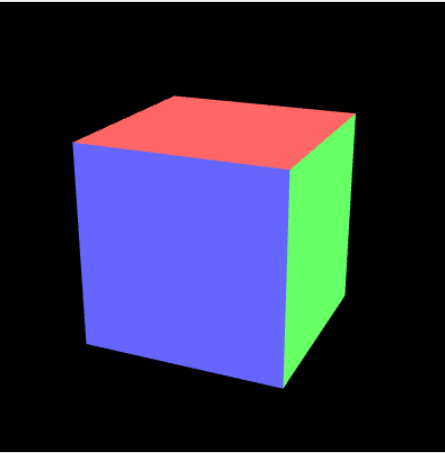
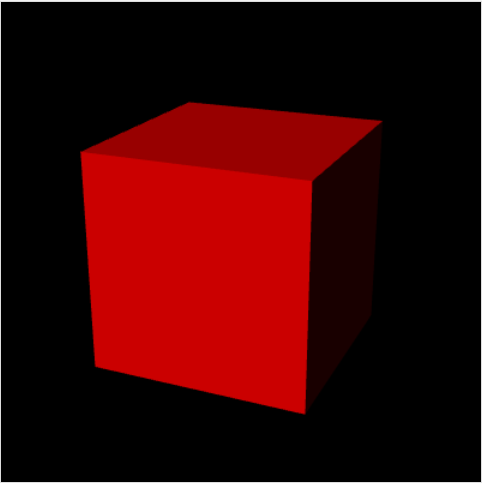
新增第八章的三个路由，分别用于绘制光照效果的立方体及其变体，并在首页添加滚动到顶部和底部的功能按钮。

diff --git a/src/views/Home/index.vue b/src/views/Home/index.vue
@@ -55,13 +55,34 @@ function handleImageError(event: Event) {
     parent.innerHTML += '<div class="no-image-text">暂无预览</div>'
   }
 }
+
+// 滚动到顶部
+function scrollToTop() {
+  const container = document.querySelector('.home-container')
+  if (container) {
+    container.scrollTo({
+      top: 0,
+      behavior: 'smooth',
+    })
+  }
+}
+
+// 滚动到底部
+function scrollToBottom() {
+  const container = document.querySelector('.home-container')
+  if (container) {
+    container.scrollTo({
+      top: container.scrollHeight,
+      behavior: 'smooth',
+    })
+  }
+}
 </script>
 
 <template>
   <div class="home-container">
     <div class="header">
       <h1>WebGL编程指南 - 学习Demo</h1>
-      <p>选择你想要查看的章节和案例</p>
     </div>
 
     <div class="chapters">
@@ -83,6 +104,20 @@ function handleImageError(event: Event) {
         </div>
       </div>
     </div>
+
+    <!-- 滚动按钮 -->
+    <div class="scroll-buttons">
+      <button class="scroll-btn scroll-to-top" title="回到顶部" @click="scrollToTop">
+        <svg viewBox="0 0 24 24" width="20" height="20" fill="currentColor">
+          <path d="M7.41 15.41L12 10.83l4.59 4.58L18 14l-6-6-6 6z" />
+        </svg>
+      </button>
+      <button class="scroll-btn scroll-to-bottom" title="前往底部" @click="scrollToBottom">
+        <svg viewBox="0 0 24 24" width="20" height="20" fill="currentColor">
+          <path d="M7.41 8.59L12 13.17l4.59-4.58L18 10l-6 6-6-6z" />
+        </svg>
+      </button>
+    </div>
   </div>
 </template>
 
@@ -92,6 +127,7 @@ function handleImageError(event: Event) {
   background: linear-gradient(135deg, #667eea 0%, #764ba2 100%);
   padding: 3rem 4rem;
   overflow: auto;
+  position: relative;
 }
 
 .header {
@@ -236,6 +272,45 @@ function handleImageError(event: Event) {
   font-weight: 400;
 }
 
+/* 滚动按钮样式 */
+.scroll-buttons {
+  position: fixed;
+  right: 2rem;
+  top: 50%;
+  transform: translateY(-50%);
+  display: flex;
+  flex-direction: column;
+  gap: 0.5rem;
+  z-index: 1000;
+}
+
+.scroll-btn {
+  width: 48px;
+  height: 48px;
+  border: none;
+  border-radius: 50%;
+  background: rgba(255, 255, 255, 0.9);
+  color: #667eea;
+  cursor: pointer;
+  display: flex;
+  align-items: center;
+  justify-content: center;
+  box-shadow: 0 4px 16px rgba(0, 0, 0, 0.15);
+  backdrop-filter: blur(10px);
+  transition: all 0.3s cubic-bezier(0.4, 0, 0.2, 1);
+}
+
+.scroll-btn:hover {
+  background: rgba(255, 255, 255, 1);
+  color: #5a67d8;
+  transform: scale(1.1);
+  box-shadow: 0 6px 20px rgba(0, 0, 0, 0.2);
+}
+
+.scroll-btn:active {
+  transform: scale(0.95);
+}
+
 /* 响应式设计 */
 @media (max-width: 1400px) {
   .demos-grid {
@@ -283,6 +358,15 @@ function handleImageError(event: Event) {
 
   .demo-preview {
     height: 200px;
+  }
+
+  .scroll-buttons {
+    right: 1rem;
+  }
+
+  .scroll-btn {
+    width: 44px;
+    height: 44px;
   }
 }
 </style>

diff --git a/src/views/ch08/LightedTranslatedRotatedCube/index.vue b/src/views/ch08/LightedTranslatedRotatedCube/index.vue
@@ -30,6 +30,12 @@ function main() {
     console.error('Failed to set the positions of the vertices')
     return
   }
+  // ✅新增：设置模型矩阵，用于对立方体进行变换
+  const modelMatrix = new Matrix4()
+  // 先沿着Y轴平移1个单位
+  modelMatrix.setTranslate(0, 1, 0)
+  // 再绕X轴旋转45度
+  modelMatrix.setRotate(45, 1, 0, 0)
   // 设置mvp矩阵
   const u_mvpMatrix = gl.getUniformLocation(gl.program, 'u_mvpMatrix')
   if (!u_mvpMatrix) {
@@ -39,8 +45,9 @@ function main() {
   const mvpMatrix = new Matrix4()
   mvpMatrix.setPerspective(30, 1, 1, 100)
   mvpMatrix.lookAt(3, 3, 7, 0, 0, 0, 0, 1, 0)
+  // ✅新增：将模型矩阵与mvp矩阵相乘
+  mvpMatrix.multiply(modelMatrix)
   gl.uniformMatrix4fv(u_mvpMatrix, false, mvpMatrix.elements)
-  // === 新增 ===
   // 设置光线颜色、方向、法向量
   const u_LightColor = gl.getUniformLocation(gl.program, 'u_LightColor')
   const u_LightDirection = gl.getUniformLocation(gl.program, 'u_LightDirection')
@@ -50,6 +57,17 @@ function main() {
   const lightDirection = new Vector3([0.5, 3.0, 4.0])
   lightDirection.normalize()
   gl.uniform3fv(u_LightDirection, lightDirection.elements)
+  // 设置环境光
+  const u_AmbientLight = gl.getUniformLocation(gl.program, 'u_AmbientLight')
+  gl.uniform3f(u_AmbientLight, 0.2, 0.2, 0.2)
+
+  // ✅新增：设置用来变换法向量的矩阵
+  const u_NormalMatrix = gl.getUniformLocation(gl.program, 'u_NormalMatrix')
+  const normalMatrix = new Matrix4()
+  // 根据模型矩阵，计算变换法向量的矩阵
+  normalMatrix.setInverseOf(modelMatrix)
+  normalMatrix.transpose()
+  gl.uniformMatrix4fv(u_NormalMatrix, false, normalMatrix.elements)
 
   gl.clearColor(0.0, 0.0, 0.0, 1.0)
   gl.enable(gl.DEPTH_TEST)
@@ -149,8 +167,10 @@ function initArrayBuffer(
 <template>
   <div class="demo-container">
     <div class="demo-header">
-      <h2>绘制一个平行光照射下的红色立方体</h2>
-      <p>🤔可以观察到立方体右侧是全黑的，与真实世界不相符，这是因为没有考虑到漫反射</p>
+      <h2>运动物体的光照效果</h2>
+      <p>计算一个进行平移、旋转后的立方体，在光照下的效果</p>
+      <p>👉主要学习如何计算运动后物体的法向量</p>
+      <p><strong>规则:</strong>用法向量乘以模型矩阵的逆转置矩阵。就可以求得变换后的法向量。</p>
     </div>
     <div class="canvas-container">
       <canvas id="webgl" width="400" height="400" />

diff --git a/src/views/ch08/LightedCube_ambient/index.vue b/src/views/ch08/LightedCube_ambient/index.vue
@@ -40,7 +40,6 @@ function main() {
   mvpMatrix.setPerspective(30, 1, 1, 100)
   mvpMatrix.lookAt(3, 3, 7, 0, 0, 0, 0, 1, 0)
   gl.uniformMatrix4fv(u_mvpMatrix, false, mvpMatrix.elements)
-  // === 新增 ===
   // 设置光线颜色、方向、法向量
   const u_LightColor = gl.getUniformLocation(gl.program, 'u_LightColor')
   const u_LightDirection = gl.getUniformLocation(gl.program, 'u_LightDirection')
@@ -50,6 +49,9 @@ function main() {
   const lightDirection = new Vector3([0.5, 3.0, 4.0])
   lightDirection.normalize()
   gl.uniform3fv(u_LightDirection, lightDirection.elements)
+  // ✅新增：设置环境光
+  const u_AmbientLight = gl.getUniformLocation(gl.program, 'u_AmbientLight')
+  gl.uniform3f(u_AmbientLight, 0.2, 0.2, 0.2)
 
   gl.clearColor(0.0, 0.0, 0.0, 1.0)
   gl.enable(gl.DEPTH_TEST)
@@ -149,8 +151,9 @@ function initArrayBuffer(
 <template>
   <div class="demo-container">
     <div class="demo-header">
-      <h2>绘制一个平行光照射下的红色立方体</h2>
-      <p>🤔可以观察到立方体右侧是全黑的，与真实世界不相符，这是因为没有考虑到漫反射</p>
+      <h2>绘制一个平行光照射下的红色立方体，并添加环境光</h2>
+      <p>👉由于有了环境光，可以观察到立方体右侧不再是全黑的</p>
+      <p>环境光可以认为是不考虑光的方向的，均匀的照射在物体表面</p>
     </div>
     <div class="canvas-container">
       <canvas id="webgl" width="400" height="400" />

diff --git a/src/router/index.ts b/src/router/index.ts
@@ -154,6 +154,21 @@ export const routes = [
     component: () => import('@/views/ch07/ColoredCube/index.vue'),
     meta: { description: '绘制一个立方体,并给每个面着色' },
   },
+  {
+    path: '/ch08/LightedCube',
+    component: () => import('@/views/ch08/LightedCube/index.vue'),
+    meta: { description: '白色平行光照射下的红色立方体' },
+  },
+  {
+    path: '/ch08/LightedCube_ambient',
+    component: () => import('@/views/ch08/LightedCube_ambient/index.vue'),
+    meta: { description: '白色平行光照射下的红色立方体，并添加环境光' },
+  },
+  {
+    path: '/ch08/LightedTranslatedRotatedCube',
+    component: () => import('@/views/ch08/LightedTranslatedRotatedCube/index.vue'),
+    meta: { description: '运动物体的光照效果' },
+  },
 ]
 
 const router = createRouter({
